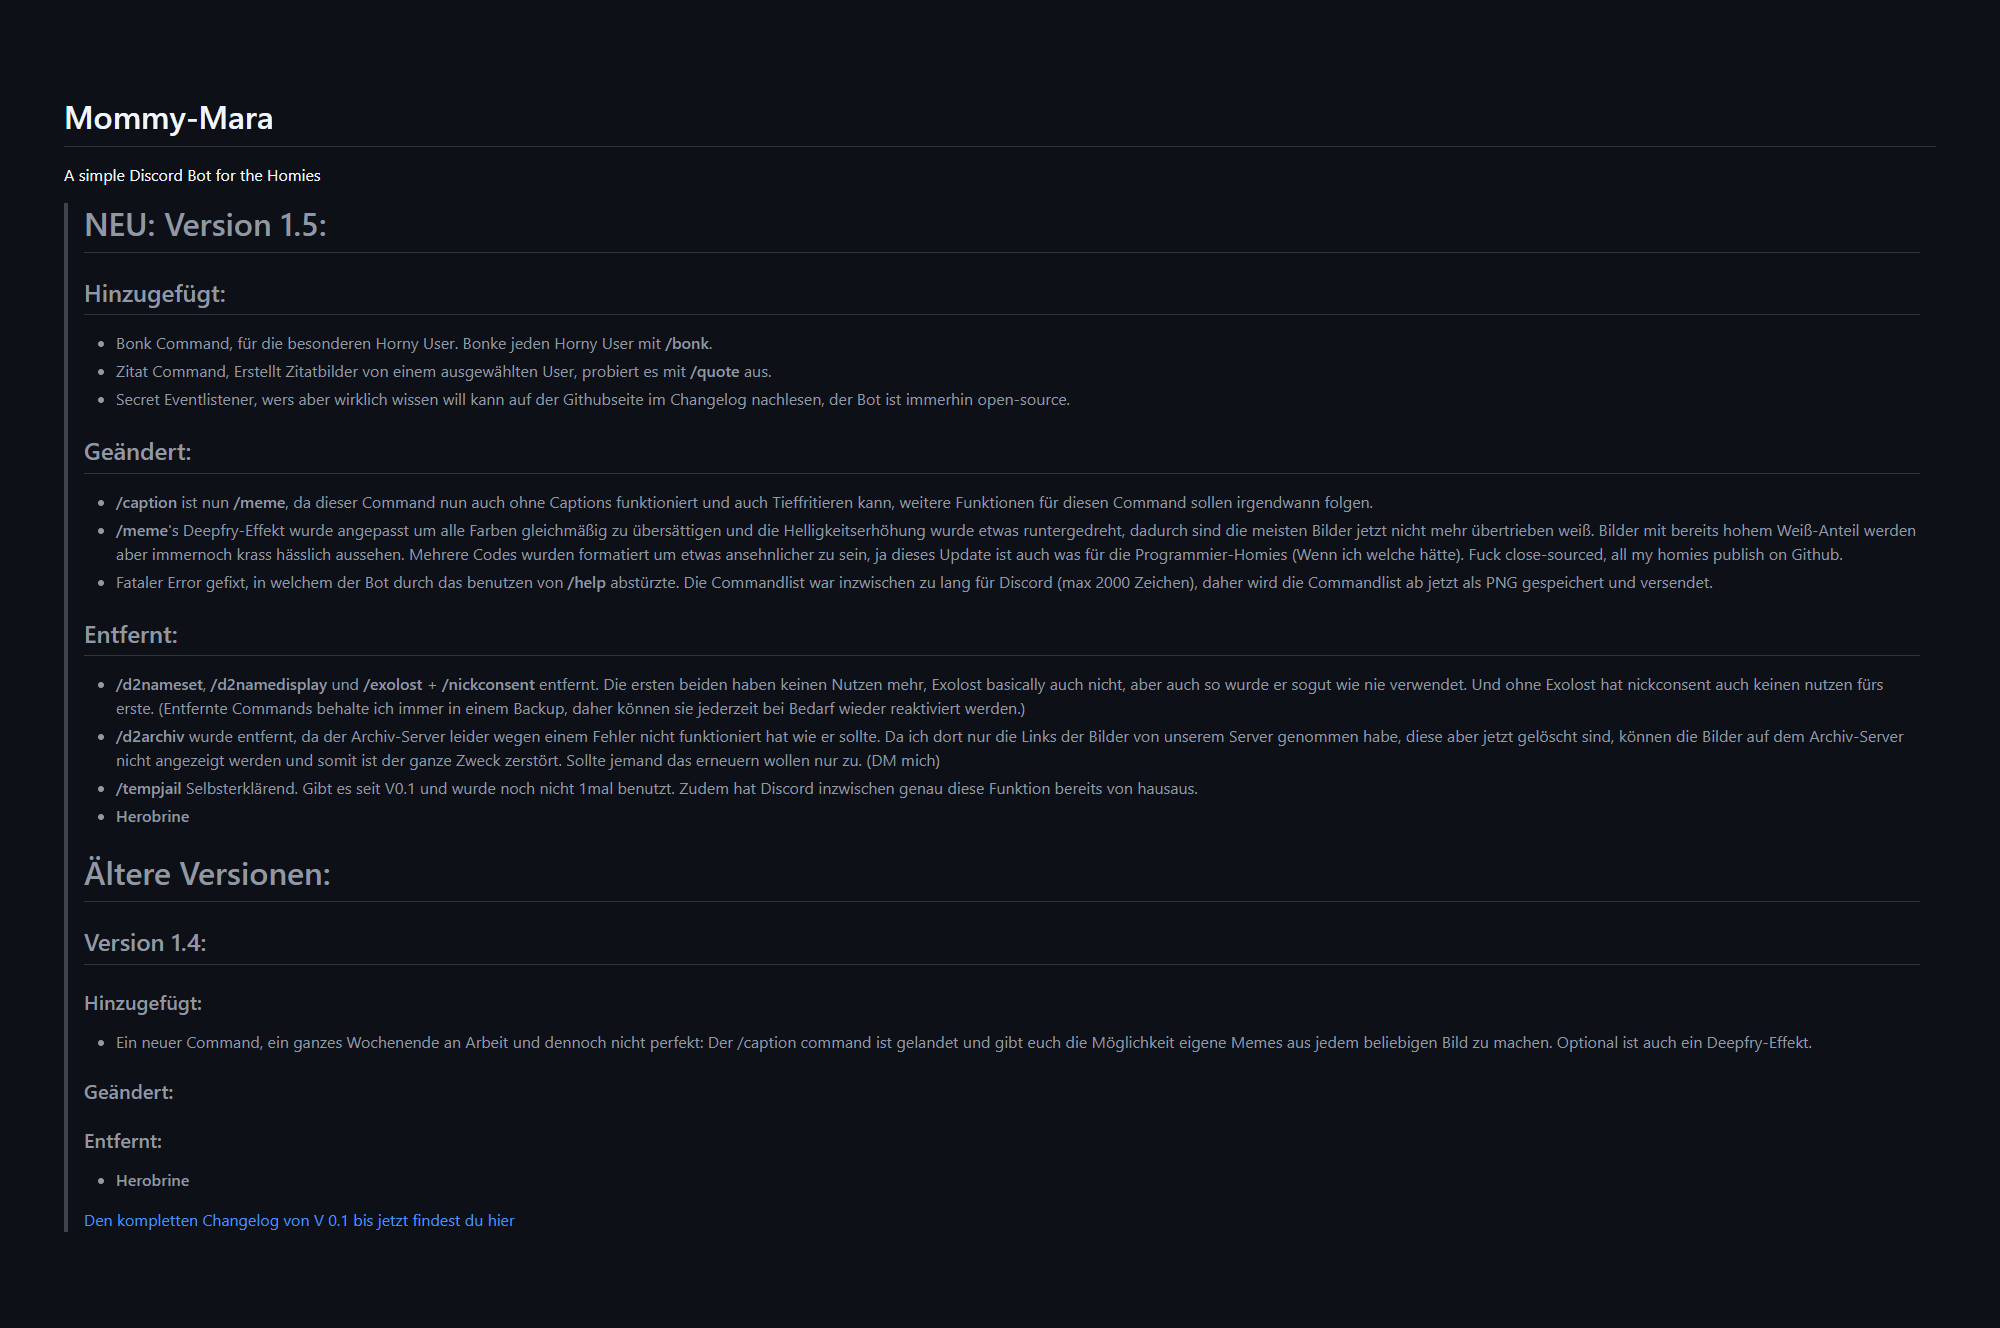
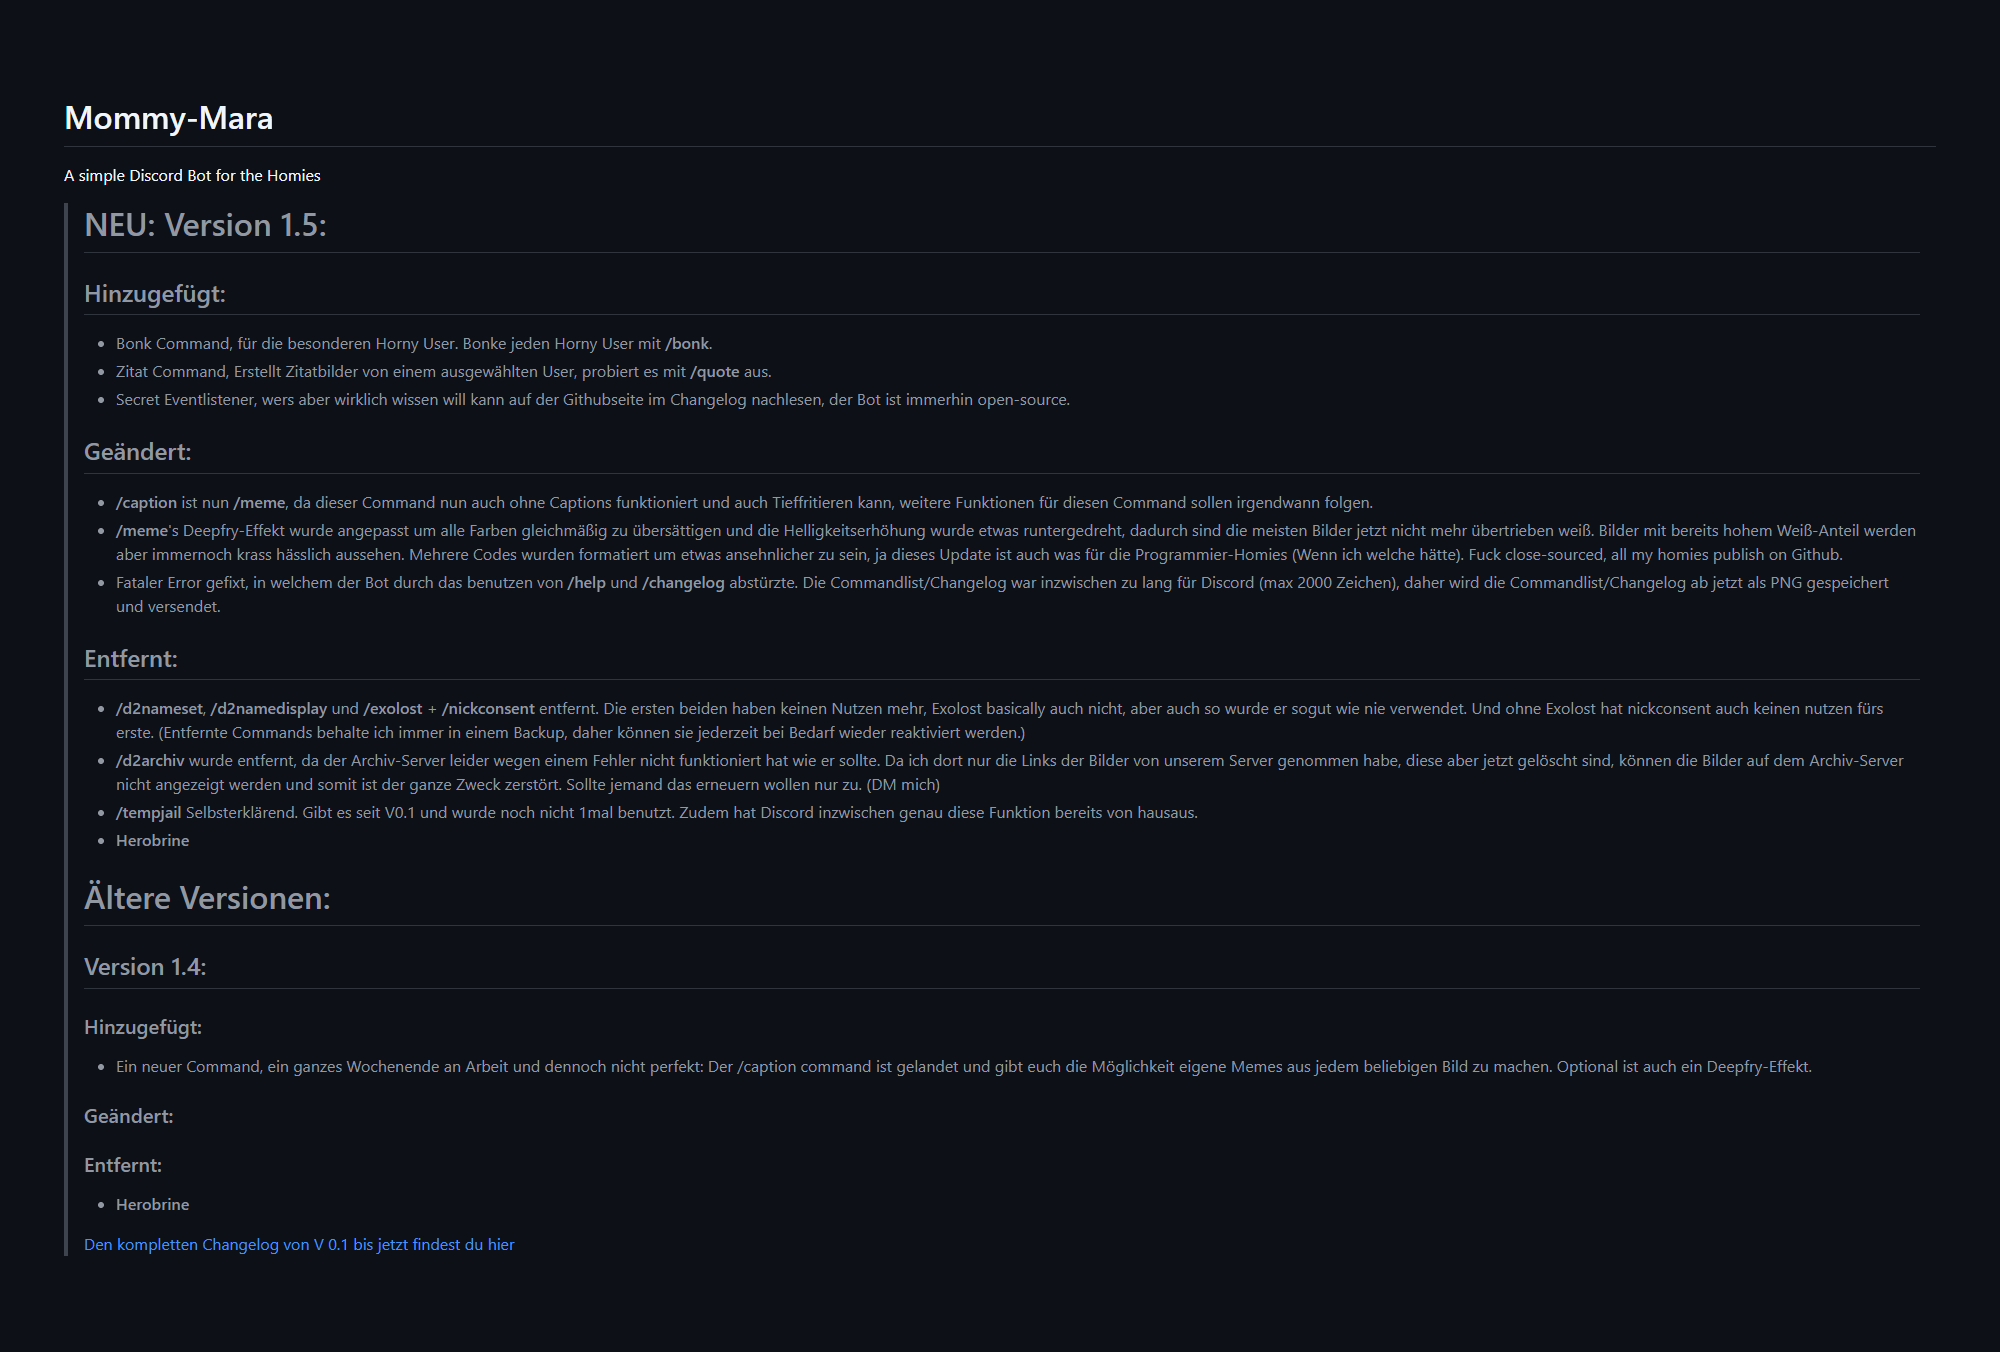
mdimg fix

diff --git a/commands/Infos/commandlist.js b/commands/Infos/commandlist.js
@@ -1,5 +1,4 @@
 const { SlashCommandBuilder } = require('discord.js');
-const { convert2img } = require("mdimg");
 const fs = require('@supercharge/fs');
 
 const cooldown = new Set();
@@ -27,13 +26,6 @@ module.exports = {
 
 		else {
 
-			await convert2img({
-				mdFile: "./COMMANDLIST.md",
-				outputFilename: "./pictures/Commandlist.png",
-				width: 2000,
-				cssTemplate: "githubDark",
-			});
-
 			await interaction.reply({ content: "Check deine DM's", ephemeral: true });
 
 			await interaction.member.send({ content: '**Die Commandlist ist inzwischen zu lang für Discord (max 2000 Zeichen), daher musste ich auf .png umsteigen:**', files: ['./pictures/Commandlist.png'] })
@@ -41,9 +33,6 @@ module.exports = {
 					content: `Hey ${user}, da ich dir keine DM schreiben darf (Das hast du in deinen Discord-Kontoeinstellungen so festgelegt), schicke ich dir die Liste auf diesem Weg:\n\n
 **Die Commandlist ist inzwischen zu lang für Discord (max 2000 Zeichen), daher musste ich auf .png umsteigen:** `, files: ['./pictures/Commandlist.png']
 				}));
-
-
-			await fs.remove('./pictures/Commandlist.png')
 
 			cooldown.add(interaction.user.id);
 			setTimeout(() => {

diff --git a/events/ready.js b/events/ready.js
@@ -1,6 +1,5 @@
 const { Events, ActivityType } = require('discord.js');
 const fs = require('@supercharge/fs');
-const { convert2img } = require("mdimg");
 const { version } = require('../misc.json');
 let statuses = require('./statuslist.js');
 
@@ -56,19 +55,10 @@ module.exports = {
 		}, 180000)
 		console.log(`Ready! Logged in as ${client.user.tag}`);
 
-		await convert2img({
-			mdFile: "./CHANGELOG.md",
-			outputFilename: "./pictures/Changelog.png",
-			width: 2000,
-			cssTemplate: "githubDark",
-		});
-
 		if (process.argv[2] && process.argv[2] === '-v') {
 			client.channels.cache.get('1084198804108095660').send('**Holy shit, new Version just dropped!!!**');
 			client.channels.cache.get('1084198804108095660').send(changelog)
 				.catch(() => client.channels.cache.get('1084198804108095660').send({ content: 'Ups, der Changelog dieser Version ist zu lang, ich wandel ihn in ein Bild um.', files: ["./pictures/Changelog.png"] }));
-
-			await fs.remove('./pictures/Changelog.png')
 		}
 
 		else if (process.argv[2] && process.argv[2] === '-r') {

diff --git a/commands/Infos/changelog.js b/commands/Infos/changelog.js
@@ -1,6 +1,5 @@
 const { SlashCommandBuilder } = require('discord.js');
 const fs = require('@supercharge/fs');
-const { convert2img } = require("mdimg");
 
 const changelog = fs.readFileSync('./CHANGELOG.md').toString()
 
@@ -24,17 +23,8 @@ module.exports = {
 
 		else {
 
-			await convert2img({
-				mdFile: "./CHANGELOG.md",
-				outputFilename: "./pictures/Changelog.png",
-				width: 2000,
-				cssTemplate: "githubDark",
-			});
-
 			await interaction.editReply(changelog)
 				.catch(() => interaction.editReply({ content: 'Ups, der Changelog dieser Version ist zu lang, ich wandel ihn in ein Bild um.', files: ["./pictures/Changelog.png"] }))
-
-			await fs.remove('./pictures/Changelog.png')
 
 			cooldown.add(interaction.user.id);
 			setTimeout(() => {

diff --git a/md2img.js b/md2img.js
@@ -1,0 +1,15 @@
+import { convert2img } from "mdimg";
+
+await convert2img({
+    mdFile: "./CHANGELOG.md",
+    outputFilename: "./pictures/Changelog.png",
+    width: 2000,
+    cssTemplate: "githubDark",
+});
+
+await convert2img({
+    mdFile: "./COMMANDLIST.md",
+    outputFilename: "./pictures/Commandlist.png",
+    width: 2000,
+    cssTemplate: "githubDark",
+});
